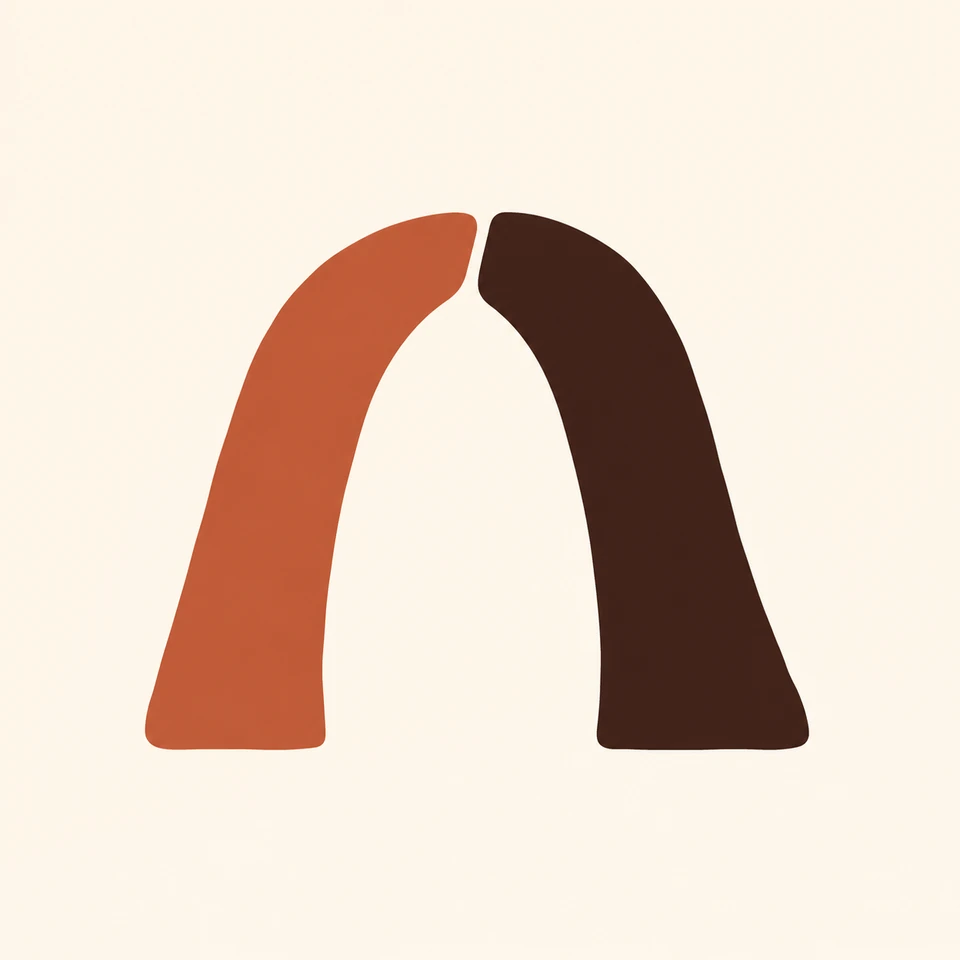
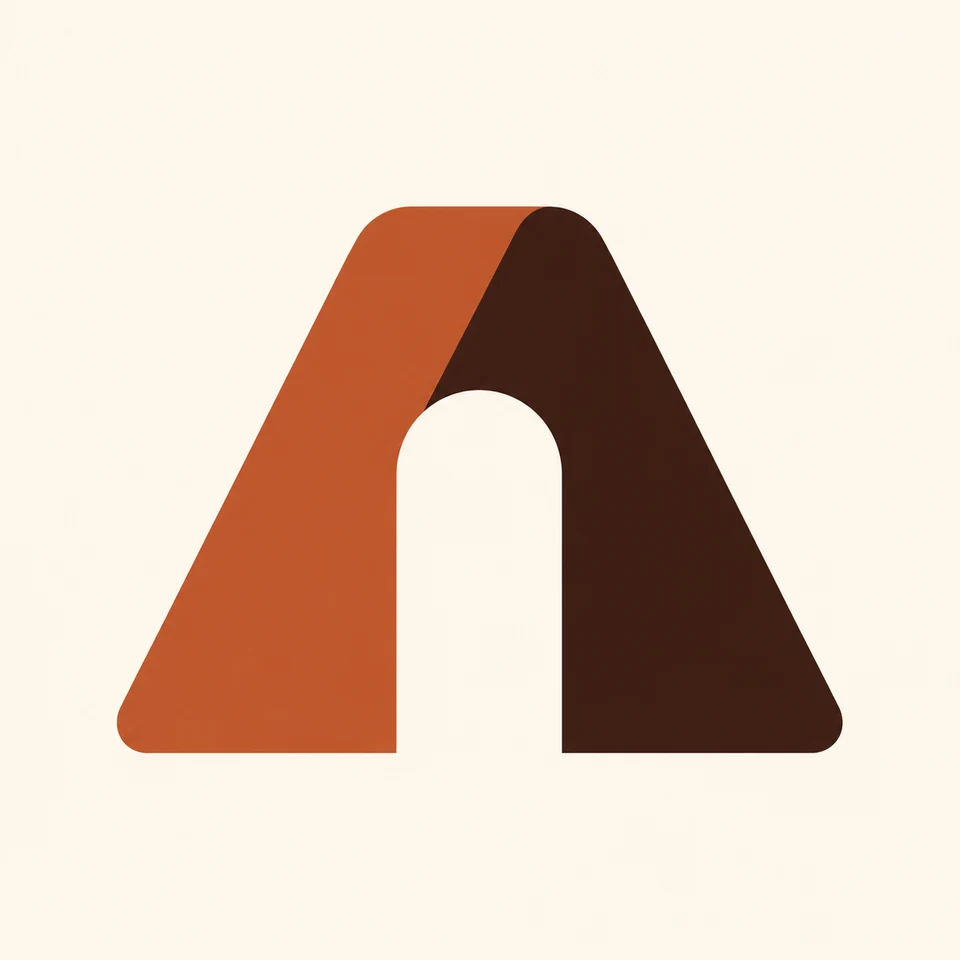
Use the selected Agapomen doorway across the site and publish the contact address

diff --git a/index.html b/index.html
@@ -21,7 +21,7 @@
     .shell{width:min(100% - 3rem,72rem);margin-inline:auto}
     .header{display:flex;align-items:center;justify-content:space-between;gap:1.5rem;min-height:6.3rem;border-bottom:1px solid var(--line)}
     .wordmark{font:1.6rem/1 var(--serif);letter-spacing:.035em;text-decoration:none;display:inline-flex;align-items:center;gap:.65rem;min-height:2.75rem}
-    .brand-mark{width:2.6rem;height:2.6rem;object-fit:contain;mix-blend-mode:darken}
+    .brand-mark{width:2.6rem;height:2.6rem;object-fit:contain}
     .nav{display:flex;align-items:center;gap:2rem;flex-wrap:wrap}
     .nav a{font-size:1rem;text-decoration:none;display:inline-flex;align-items:center;min-height:2.75rem}
     .nav a:hover{text-decoration:underline}
@@ -34,7 +34,7 @@
     .button{display:inline-flex;align-items:center;justify-content:center;padding:.85rem 1.5rem;min-height:3rem;border:1px solid var(--ink);border-radius:3rem;background:var(--ink);color:var(--paper);text-decoration:none;font-weight:550;font-size:1rem;transition:background .18s,border-color .18s}
     .button:hover{background:var(--rust);border-color:var(--rust)}
     .hero-art{margin:0;min-width:0;text-align:center}
-    .hero-art img{display:block;width:100%;max-width:30rem;height:auto;margin:auto;mix-blend-mode:darken}
+    .hero-art img{display:block;width:100%;max-width:30rem;height:auto;margin:auto}
     .hero-art figcaption{font:.875rem/1.5 var(--sans);color:var(--muted);margin-top:-.75rem}
     .hero-art figcaption a{text-decoration:none}
     .hero-art figcaption a:hover{text-decoration:underline}
@@ -72,23 +72,25 @@
   <title>Agapomen — Let us love | Reflections for everyday life</title>
   <meta name="description" content="Let us love. Small practices in attention, truth, and service for the ordinary moments that make a life. Original reflections, offered freely.">
   <link rel="canonical" href="https://agapomen.org/">
-  <link rel="icon" type="image/png" sizes="48x48" href="/assets/agapomen-icon-48.png">
+  <link rel="icon" type="image/png" sizes="48x48" href="/assets/agapomen-icon-48.png?v=2">
+  <link rel="apple-touch-icon" sizes="180x180" href="/assets/apple-touch-icon.png">
+  <link rel="manifest" href="/site.webmanifest">
   <meta property="og:type" content="website">
   <meta property="og:title" content="Agapomen — Let us love | Reflections for everyday life">
   <meta property="og:description" content="Let us love. Small practices in attention, truth, and service for the ordinary moments that make a life. Original reflections, offered freely.">
   <meta property="og:url" content="https://agapomen.org/">
   <meta property="og:site_name" content="Agapomen">
   <meta property="og:locale" content="en_US">
-  <meta property="og:image" content="https://agapomen.org/assets/agapomen-doorway.png">
+  <meta property="og:image" content="https://agapomen.org/assets/agapomen-doorway.png?v=2">
   <meta property="og:image:type" content="image/png">
   <meta property="og:image:width" content="1254">
   <meta property="og:image:height" content="1254">
-  <meta property="og:image:alt" content="Agapomen’s open doorway mark: two distinct forms making room together.">
+  <meta property="og:image:alt" content="Agapomen’s terracotta and dark-brown A-shaped doorway on ivory.">
   <meta name="twitter:card" content="summary">
   <meta name="twitter:title" content="Agapomen — Let us love | Reflections for everyday life">
   <meta name="twitter:description" content="Let us love. Small practices in attention, truth, and service for the ordinary moments that make a life. Original reflections, offered freely.">
-  <meta name="twitter:image" content="https://agapomen.org/assets/agapomen-doorway.png">
-  <meta name="twitter:image:alt" content="Agapomen’s open doorway mark: two distinct forms making room together.">
+  <meta name="twitter:image" content="https://agapomen.org/assets/agapomen-doorway.png?v=2">
+  <meta name="twitter:image:alt" content="Agapomen’s terracotta and dark-brown A-shaped doorway on ivory.">
   <script type="application/ld+json">
 {
   "@context": "https://schema.org",
@@ -105,7 +107,7 @@
   <a class="skip" href="#content">Skip to content</a>
   <div class="shell" id="top">
     <header class="header">
-      <a class="wordmark" href="#top" aria-label="Agapomen, home"><img class="brand-mark" src="assets/agapomen-mark-128.png" width="42" height="42" alt="">Agapomen</a>
+      <a class="wordmark" href="#top" aria-label="Agapomen, home"><img class="brand-mark" src="assets/agapomen-mark-128.png?v=2" width="42" height="42" alt="">Agapomen</a>
       <nav class="nav" aria-label="Main navigation"><a href="https://bible.agapomen.org/#home">Living Bible</a><a href="#practice">Reflections</a><a href="#about">About</a></nav>
     </header>
     <main id="content">
@@ -118,9 +120,9 @@
         </div>
         <figure class="hero-art">
           <picture>
-            <source media="(max-width: 560px)" srcset="assets/agapomen-mark-128.png">
-            <source type="image/webp" srcset="assets/agapomen-doorway-480.webp 480w, assets/agapomen-doorway-960.webp 960w, assets/agapomen-doorway-1254.webp 1254w" sizes="(max-width: 760px) calc(42.5vw - 23.8px), (max-width: 1112px) calc(46.512vw - 37.21px), 480px">
-            <img src="assets/agapomen-doorway.png" width="1254" height="1254" alt="Two distinct forms making an open doorway." decoding="async" fetchpriority="high">
+            <source media="(max-width: 560px)" srcset="assets/agapomen-mark-128.png?v=2">
+            <source type="image/webp" srcset="assets/agapomen-doorway-480.webp?v=2 480w, assets/agapomen-doorway-960.webp?v=2 960w, assets/agapomen-doorway-1254.webp?v=2 1254w" sizes="(max-width: 760px) calc(42.5vw - 23.8px), (max-width: 1112px) calc(46.512vw - 37.21px), 480px">
+            <img src="assets/agapomen-doorway.png?v=2" width="1254" height="1254" alt="Agapomen’s terracotta and dark-brown A-shaped doorway." decoding="async" fetchpriority="high">
           </picture>
           <figcaption><a href="https://www.openbible.com/text/1_john/4-7.htm" rel="noopener noreferrer"><span class="greek" lang="grc">ἀγαπῶμεν</span> Let us love · 1 John 4:7</a></figcaption>
         </figure>
@@ -157,7 +159,7 @@
       </section>
       <section class="purpose" id="about" aria-labelledby="purpose-title">
         <h2 id="purpose-title"><span>Love everyone.</span><span>Serve everyone.</span><span>Tell the truth.</span></h2>
-        <div class="purpose-copy"><p>This is the purpose behind Agapomen. Our work is offered freely, and remains open to correction.</p><p>Our name means “let us love,” from <a href="https://www.openbible.com/text/1_john/4-7.htm" rel="noopener noreferrer">1 John 4:7</a>. Everyone is welcome here.</p></div>
+        <div class="purpose-copy"><p>This is the purpose behind Agapomen. Our work is offered freely, and remains open to correction.</p><p>Our name means “let us love,” from <a href="https://www.openbible.com/text/1_john/4-7.htm" rel="noopener noreferrer">1 John 4:7</a>. Everyone is welcome here.</p><p>For questions, feedback, or corrections, email <a href="mailto:hello@agapomen.org">hello@agapomen.org</a>.</p></div>
       </section>
     </main>
     <footer class="footer" id="record">

diff --git a/corrections.html b/corrections.html
@@ -25,7 +25,7 @@ a:focus-visible{outline:3px solid var(--oxide);outline-offset:4px}
 .utility,.eyebrow,.nav,.tiny,.folio,.step-tag,.note-label,.foottext{font-family:ui-sans-serif,system-ui,-apple-system,BlinkMacSystemFont,"Segoe UI",sans-serif}
 .utility{font-size:11px;line-height:1.5;letter-spacing:.1em;text-transform:uppercase;font-weight:650}
 header{position:relative;border-bottom:1px solid var(--rule-dark);display:flex;align-items:center;justify-content:space-between;gap:24px;padding:24px 0 22px}
-.wordmark{text-decoration:none;font:600 22px/1.1 Georgia,"Times New Roman",serif;letter-spacing:.15em}
+.wordmark{display:inline-flex;align-items:center;gap:.5rem;text-decoration:none;font:600 22px/1.1 Georgia,"Times New Roman",serif;letter-spacing:.15em}
 .head-side{display:flex;align-items:center;gap:32px}
 .issue{color:var(--muted);white-space:nowrap}
 .nav{display:flex;align-items:center;gap:26px;font-size:12px;font-weight:650;letter-spacing:.04em}
@@ -142,29 +142,31 @@ header{flex-wrap:wrap}
   <title>Agapomen’s correction record — When the work changes</title>
   <meta name="description" content="Agapomen’s public correction record: what we checked, what changed, and what remains unknown. Read the evidence and limits behind our revisions.">
   <link rel="canonical" href="https://agapomen.org/corrections.html">
-  <link rel="icon" type="image/png" sizes="48x48" href="/assets/agapomen-icon-48.png">
+  <link rel="icon" type="image/png" sizes="48x48" href="/assets/agapomen-icon-48.png?v=2">
+  <link rel="apple-touch-icon" sizes="180x180" href="/assets/apple-touch-icon.png">
+  <link rel="manifest" href="/site.webmanifest">
   <meta property="og:type" content="website">
   <meta property="og:title" content="Agapomen’s correction record — When the work changes">
   <meta property="og:description" content="Agapomen’s public correction record: what we checked, what changed, and what remains unknown. Read the evidence and limits behind our revisions.">
   <meta property="og:url" content="https://agapomen.org/corrections.html">
   <meta property="og:site_name" content="Agapomen">
   <meta property="og:locale" content="en_US">
-  <meta property="og:image" content="https://agapomen.org/assets/agapomen-doorway.png">
+  <meta property="og:image" content="https://agapomen.org/assets/agapomen-doorway.png?v=2">
   <meta property="og:image:type" content="image/png">
   <meta property="og:image:width" content="1254">
   <meta property="og:image:height" content="1254">
-  <meta property="og:image:alt" content="Agapomen’s open doorway mark: two distinct forms making room together.">
+  <meta property="og:image:alt" content="Agapomen’s terracotta and dark-brown A-shaped doorway on ivory.">
   <meta name="twitter:card" content="summary">
   <meta name="twitter:title" content="Agapomen’s correction record — When the work changes">
   <meta name="twitter:description" content="Agapomen’s public correction record: what we checked, what changed, and what remains unknown. Read the evidence and limits behind our revisions.">
-  <meta name="twitter:image" content="https://agapomen.org/assets/agapomen-doorway.png">
-  <meta name="twitter:image:alt" content="Agapomen’s open doorway mark: two distinct forms making room together.">
+  <meta name="twitter:image" content="https://agapomen.org/assets/agapomen-doorway.png?v=2">
+  <meta name="twitter:image:alt" content="Agapomen’s terracotta and dark-brown A-shaped doorway on ivory.">
 </head>
 <body>
 <a class="skip" href="#content">Skip to the writing</a>
 <div class="sheet" id="top">
 <header>
-  <a href="index.html" class="wordmark" aria-label="Agapomen, homepage">AGAPOMEN</a>
+  <a href="index.html" class="wordmark" aria-label="Agapomen, homepage"><img src="/assets/agapomen-mark-128.png?v=2" width="34" height="34" alt="">AGAPOMEN</a>
   <div class="head-side">
     <span class="utility issue">An unfinished work · The record</span>
     <nav class="nav" aria-label="Sections"><a href="https://bible.agapomen.org/#home">Living Bible</a><a href="note-001.html">First note</a><a href="note-002.html">Truth</a><a href="note-003.html">Service</a><a href="#entries">The record</a></nav>
@@ -217,7 +219,7 @@ header{flex-wrap:wrap}
     <div><strong>Test the alternative.</strong><p>Seek contrary evidence, name uncertainty and understand what would change the judgment.</p></div>
     <div><strong>Preserve the correction.</strong><p>Show what changed and why, rather than silently rewriting the earlier account.</p></div>
   </div>
-  <p class="statement">A private reader-submission channel is still being prepared. We won't put a misleading or unprotected form in front of visitors just to appear open. <em>This page records our actual corrections now.</em></p>
+  <p class="statement">For questions, feedback, or corrections, email <a href="mailto:hello@agapomen.org">hello@agapomen.org</a>. If you spotted an error, include the page and the passage so we can find it.</p>
   <a class="textlink" href="note-001.html">Return to the first note <span class="arrow" aria-hidden="true">→</span></a>
 </section>
 </main>

diff --git a/note-002.html b/note-002.html
@@ -25,7 +25,7 @@ a:focus-visible{outline:3px solid var(--oxide);outline-offset:4px}
 .utility,.eyebrow,.nav,.tiny,.folio,.step-tag,.note-label,.foottext{font-family:ui-sans-serif,system-ui,-apple-system,BlinkMacSystemFont,"Segoe UI",sans-serif}
 .utility{font-size:11px;line-height:1.5;letter-spacing:.1em;text-transform:uppercase;font-weight:650}
 header{position:relative;border-bottom:1px solid var(--rule-dark);display:flex;align-items:center;justify-content:space-between;gap:24px;padding:24px 0 22px}
-.wordmark{text-decoration:none;font:600 22px/1.1 Georgia,"Times New Roman",serif;letter-spacing:.15em}
+.wordmark{display:inline-flex;align-items:center;gap:.5rem;text-decoration:none;font:600 22px/1.1 Georgia,"Times New Roman",serif;letter-spacing:.15em}
 .head-side{display:flex;align-items:center;gap:32px}
 .issue{color:var(--muted);white-space:nowrap}
 .nav{display:flex;align-items:center;gap:26px;font-size:12px;font-weight:650;letter-spacing:.04em}
@@ -119,29 +119,31 @@ header{flex-wrap:wrap}
   <title>Truth without victory: Speak with care — Agapomen</title>
   <meta name="description" content="An Agapomen reflection on speaking honestly without turning someone into an opponent. Four questions for disagreement, care, and openness to correction.">
   <link rel="canonical" href="https://agapomen.org/note-002.html">
-  <link rel="icon" type="image/png" sizes="48x48" href="/assets/agapomen-icon-48.png">
+  <link rel="icon" type="image/png" sizes="48x48" href="/assets/agapomen-icon-48.png?v=2">
+  <link rel="apple-touch-icon" sizes="180x180" href="/assets/apple-touch-icon.png">
+  <link rel="manifest" href="/site.webmanifest">
   <meta property="og:type" content="article">
   <meta property="og:title" content="Truth without victory: Speak with care — Agapomen">
   <meta property="og:description" content="An Agapomen reflection on speaking honestly without turning someone into an opponent. Four questions for disagreement, care, and openness to correction.">
   <meta property="og:url" content="https://agapomen.org/note-002.html">
   <meta property="og:site_name" content="Agapomen">
   <meta property="og:locale" content="en_US">
-  <meta property="og:image" content="https://agapomen.org/assets/agapomen-doorway.png">
+  <meta property="og:image" content="https://agapomen.org/assets/agapomen-doorway.png?v=2">
   <meta property="og:image:type" content="image/png">
   <meta property="og:image:width" content="1254">
   <meta property="og:image:height" content="1254">
-  <meta property="og:image:alt" content="Agapomen’s open doorway mark: two distinct forms making room together.">
+  <meta property="og:image:alt" content="Agapomen’s terracotta and dark-brown A-shaped doorway on ivory.">
   <meta name="twitter:card" content="summary">
   <meta name="twitter:title" content="Truth without victory: Speak with care — Agapomen">
   <meta name="twitter:description" content="An Agapomen reflection on speaking honestly without turning someone into an opponent. Four questions for disagreement, care, and openness to correction.">
-  <meta name="twitter:image" content="https://agapomen.org/assets/agapomen-doorway.png">
-  <meta name="twitter:image:alt" content="Agapomen’s open doorway mark: two distinct forms making room together.">
+  <meta name="twitter:image" content="https://agapomen.org/assets/agapomen-doorway.png?v=2">
+  <meta name="twitter:image:alt" content="Agapomen’s terracotta and dark-brown A-shaped doorway on ivory.">
 </head>
 <body>
 <a class="skip" href="#content">Skip to the note</a>
 <div class="sheet" id="top">
 <header>
-  <a href="index.html" class="wordmark" aria-label="Agapomen, home">AGAPOMEN</a>
+  <a href="index.html" class="wordmark" aria-label="Agapomen, home"><img src="/assets/agapomen-mark-128.png?v=2" width="34" height="34" alt="">AGAPOMEN</a>
   <div class="head-side">
     <span class="utility issue">An unfinished work · No. 002</span>
     <nav class="nav" aria-label="Sections"><a href="https://bible.agapomen.org/#home">Living Bible</a><a href="note-001.html">First note</a><a href="#practice">A practice</a><a href="note-003.html">Service</a><a href="corrections.html">Corrections</a></nav>

diff --git a/note-003.html b/note-003.html
@@ -26,7 +26,7 @@ a:focus-visible{outline:3px solid var(--oxide);outline-offset:4px}
 .utility,.eyebrow,.nav,.tiny,.folio,.step-tag,.note-label,.foottext{font-family:ui-sans-serif,system-ui,-apple-system,BlinkMacSystemFont,"Segoe UI",sans-serif}
 .utility{font-size:11px;line-height:1.5;letter-spacing:.1em;text-transform:uppercase;font-weight:650}
 header{position:relative;border-bottom:1px solid var(--rule-dark);display:flex;align-items:center;justify-content:space-between;gap:24px;padding:24px 0 22px}
-.wordmark{text-decoration:none;font:600 22px/1.1 Georgia,"Times New Roman",serif;letter-spacing:.15em}
+.wordmark{display:inline-flex;align-items:center;gap:.5rem;text-decoration:none;font:600 22px/1.1 Georgia,"Times New Roman",serif;letter-spacing:.15em}
 .head-side{display:flex;align-items:center;gap:32px}
 .issue{color:var(--muted);white-space:nowrap}
 .nav{display:flex;align-items:center;gap:26px;font-size:12px;font-weight:650;letter-spacing:.04em}
@@ -120,29 +120,31 @@ header{flex-wrap:wrap}
   <title>The next small good: A practice of service — Agapomen</title>
   <meta name="description" content="Notice one real need and make one offer you can keep. An original Agapomen reflection on practical service that respects another person’s freedom.">
   <link rel="canonical" href="https://agapomen.org/note-003.html">
-  <link rel="icon" type="image/png" sizes="48x48" href="/assets/agapomen-icon-48.png">
+  <link rel="icon" type="image/png" sizes="48x48" href="/assets/agapomen-icon-48.png?v=2">
+  <link rel="apple-touch-icon" sizes="180x180" href="/assets/apple-touch-icon.png">
+  <link rel="manifest" href="/site.webmanifest">
   <meta property="og:type" content="article">
   <meta property="og:title" content="The next small good: A practice of service — Agapomen">
   <meta property="og:description" content="Notice one real need and make one offer you can keep. An original Agapomen reflection on practical service that respects another person’s freedom.">
   <meta property="og:url" content="https://agapomen.org/note-003.html">
   <meta property="og:site_name" content="Agapomen">
   <meta property="og:locale" content="en_US">
-  <meta property="og:image" content="https://agapomen.org/assets/agapomen-doorway.png">
+  <meta property="og:image" content="https://agapomen.org/assets/agapomen-doorway.png?v=2">
   <meta property="og:image:type" content="image/png">
   <meta property="og:image:width" content="1254">
   <meta property="og:image:height" content="1254">
-  <meta property="og:image:alt" content="Agapomen’s open doorway mark: two distinct forms making room together.">
+  <meta property="og:image:alt" content="Agapomen’s terracotta and dark-brown A-shaped doorway on ivory.">
   <meta name="twitter:card" content="summary">
   <meta name="twitter:title" content="The next small good: A practice of service — Agapomen">
   <meta name="twitter:description" content="Notice one real need and make one offer you can keep. An original Agapomen reflection on practical service that respects another person’s freedom.">
-  <meta name="twitter:image" content="https://agapomen.org/assets/agapomen-doorway.png">
-  <meta name="twitter:image:alt" content="Agapomen’s open doorway mark: two distinct forms making room together.">
+  <meta name="twitter:image" content="https://agapomen.org/assets/agapomen-doorway.png?v=2">
+  <meta name="twitter:image:alt" content="Agapomen’s terracotta and dark-brown A-shaped doorway on ivory.">
 </head>
 <body>
 <a class="skip" href="#content">Skip to the note</a>
 <div class="sheet" id="top">
 <header>
-  <a href="index.html" class="wordmark" aria-label="Agapomen, home">AGAPOMEN</a>
+  <a href="index.html" class="wordmark" aria-label="Agapomen, home"><img src="/assets/agapomen-mark-128.png?v=2" width="34" height="34" alt="">AGAPOMEN</a>
   <div class="head-side">
     <span class="utility issue">An unfinished work · No. 003</span>
     <nav class="nav" aria-label="Sections"><a href="https://bible.agapomen.org/#home">Living Bible</a><a href="note-001.html">First note</a><a href="note-002.html">Truth</a><a href="#practice">A practice</a><a href="corrections.html">Corrections</a></nav>

diff --git a/note-001.html b/note-001.html
@@ -25,7 +25,7 @@ a:focus-visible{outline:3px solid var(--oxide);outline-offset:4px}
 .utility,.eyebrow,.nav,.tiny,.folio,.step-tag,.note-label,.foottext{font-family:ui-sans-serif,system-ui,-apple-system,BlinkMacSystemFont,"Segoe UI",sans-serif}
 .utility{font-size:11px;line-height:1.5;letter-spacing:.1em;text-transform:uppercase;font-weight:650}
 header{position:relative;border-bottom:1px solid var(--rule-dark);display:flex;align-items:center;justify-content:space-between;gap:24px;padding:24px 0 22px}
-.wordmark{text-decoration:none;font:600 22px/1.1 Georgia,"Times New Roman",serif;letter-spacing:.15em}
+.wordmark{display:inline-flex;align-items:center;gap:.5rem;text-decoration:none;font:600 22px/1.1 Georgia,"Times New Roman",serif;letter-spacing:.15em}
 .head-side{display:flex;align-items:center;gap:32px}
 .issue{color:var(--muted);white-space:nowrap}
 .nav{display:flex;align-items:center;gap:26px;font-size:12px;font-weight:650;letter-spacing:.04em}
@@ -122,29 +122,31 @@ header{flex-wrap:wrap}
   <title>Before the reply: A practice of listening — Agapomen</title>
   <meta name="description" content="Offer your attention before preparing an answer. An original Agapomen reflection with four small practices for listening and responding truthfully.">
   <link rel="canonical" href="https://agapomen.org/note-001.html">
-  <link rel="icon" type="image/png" sizes="48x48" href="/assets/agapomen-icon-48.png">
+  <link rel="icon" type="image/png" sizes="48x48" href="/assets/agapomen-icon-48.png?v=2">
+  <link rel="apple-touch-icon" sizes="180x180" href="/assets/apple-touch-icon.png">
+  <link rel="manifest" href="/site.webmanifest">
   <meta property="og:type" content="article">
   <meta property="og:title" content="Before the reply: A practice of listening — Agapomen">
   <meta property="og:description" content="Offer your attention before preparing an answer. An original Agapomen reflection with four small practices for listening and responding truthfully.">
   <meta property="og:url" content="https://agapomen.org/note-001.html">
   <meta property="og:site_name" content="Agapomen">
   <meta property="og:locale" content="en_US">
-  <meta property="og:image" content="https://agapomen.org/assets/agapomen-doorway.png">
+  <meta property="og:image" content="https://agapomen.org/assets/agapomen-doorway.png?v=2">
   <meta property="og:image:type" content="image/png">
   <meta property="og:image:width" content="1254">
   <meta property="og:image:height" content="1254">
-  <meta property="og:image:alt" content="Agapomen’s open doorway mark: two distinct forms making room together.">
+  <meta property="og:image:alt" content="Agapomen’s terracotta and dark-brown A-shaped doorway on ivory.">
   <meta name="twitter:card" content="summary">
   <meta name="twitter:title" content="Before the reply: A practice of listening — Agapomen">
   <meta name="twitter:description" content="Offer your attention before preparing an answer. An original Agapomen reflection with four small practices for listening and responding truthfully.">
-  <meta name="twitter:image" content="https://agapomen.org/assets/agapomen-doorway.png">
-  <meta name="twitter:image:alt" content="Agapomen’s open doorway mark: two distinct forms making room together.">
+  <meta name="twitter:image" content="https://agapomen.org/assets/agapomen-doorway.png?v=2">
+  <meta name="twitter:image:alt" content="Agapomen’s terracotta and dark-brown A-shaped doorway on ivory.">
 </head>
 <body>
 <a class="skip" href="#content">Skip to the note</a>
 <div class="sheet" id="top">
 <header>
-  <a href="index.html" class="wordmark" aria-label="Agapomen, home">AGAPOMEN</a>
+  <a href="index.html" class="wordmark" aria-label="Agapomen, home"><img src="/assets/agapomen-mark-128.png?v=2" width="34" height="34" alt="">AGAPOMEN</a>
   <div class="head-side"><nav class="nav" aria-label="Sections"><a href="https://bible.agapomen.org/#home">Living Bible</a><a href="index.html#practice">All reflections</a><a href="note-002.html">Truth</a><a href="note-003.html">Service</a><a href="corrections.html">Corrections</a></nav></div>
 </header>
 <main id="content">

diff --git a/free-reading.html b/free-reading.html
@@ -8,13 +8,18 @@
   <title>Why Living Bible is free | Agapomen</title>
   <meta name="description" content="Read Living Bible freely, without an account. See what the English edition includes, how source-linked study is developed, and where the research remains open.">
   <link rel="canonical" href="https://agapomen.org/free-reading.html">
-  <link rel="icon" type="image/png" sizes="48x48" href="/assets/agapomen-icon-48.png">
+  <link rel="icon" type="image/png" sizes="48x48" href="/assets/agapomen-icon-48.png?v=2">
+  <link rel="apple-touch-icon" sizes="180x180" href="/assets/apple-touch-icon.png">
+  <link rel="manifest" href="/site.webmanifest">
   <meta property="og:type" content="article">
   <meta property="og:title" content="Why Living Bible is free | Agapomen">
   <meta property="og:description" content="An open Bible reading experience, evidence-led study and clear limits. No account or payment needed.">
   <meta property="og:url" content="https://agapomen.org/free-reading.html">
   <meta property="og:site_name" content="Agapomen">
-  <meta property="og:image" content="https://agapomen.org/assets/agapomen-doorway.png">
+  <meta property="og:image" content="https://agapomen.org/assets/agapomen-doorway.png?v=2">
+  <meta property="og:image:alt" content="Agapomen’s terracotta and dark-brown A-shaped doorway on ivory.">
+  <meta name="twitter:image" content="https://agapomen.org/assets/agapomen-doorway.png?v=2">
+  <meta name="twitter:image:alt" content="Agapomen’s terracotta and dark-brown A-shaped doorway on ivory.">
   <meta name="twitter:card" content="summary">
   <style>
     :root{--paper:#f8f4ec;--ink:#30291f;--muted:#6b6056;--rust:#8c4632;--line:#d7cdbf;--sans:ui-sans-serif,system-ui,-apple-system,BlinkMacSystemFont,"Segoe UI",sans-serif;--serif:Georgia,"Times New Roman",serif}
@@ -27,7 +32,7 @@
     .shell{width:min(100% - 3rem,62rem);margin-inline:auto}
     .header{display:flex;align-items:center;justify-content:space-between;gap:1rem;min-height:6rem;border-bottom:1px solid var(--line)}
     .brand{display:flex;align-items:center;gap:.65rem;min-height:2.75rem;font:1.55rem/1 var(--serif);letter-spacing:.03em;text-decoration:none}
-    .brand img{width:2.5rem;height:2.5rem;mix-blend-mode:darken}
+    .brand img{width:2.5rem;height:2.5rem}
     .nav{display:flex;gap:1.25rem;flex-wrap:wrap}
     .nav a{min-height:2.75rem;display:inline-flex;align-items:center;text-decoration:none;font-size:.95rem}
     .nav a:hover{text-decoration:underline}
@@ -53,7 +58,7 @@
   <a class="skip" href="#content">Skip to content</a>
   <div class="shell">
     <header class="header">
-      <a class="brand" href="index.html"><img src="assets/agapomen-mark-128.png" width="40" height="40" alt="">Agapomen</a>
+      <a class="brand" href="index.html"><img src="assets/agapomen-mark-128.png?v=2" width="40" height="40" alt="">Agapomen</a>
       <nav class="nav" aria-label="Main navigation">
         <a href="https://bible.agapomen.org/#home">Living Bible</a>
         <a href="index.html">Our work</a>
